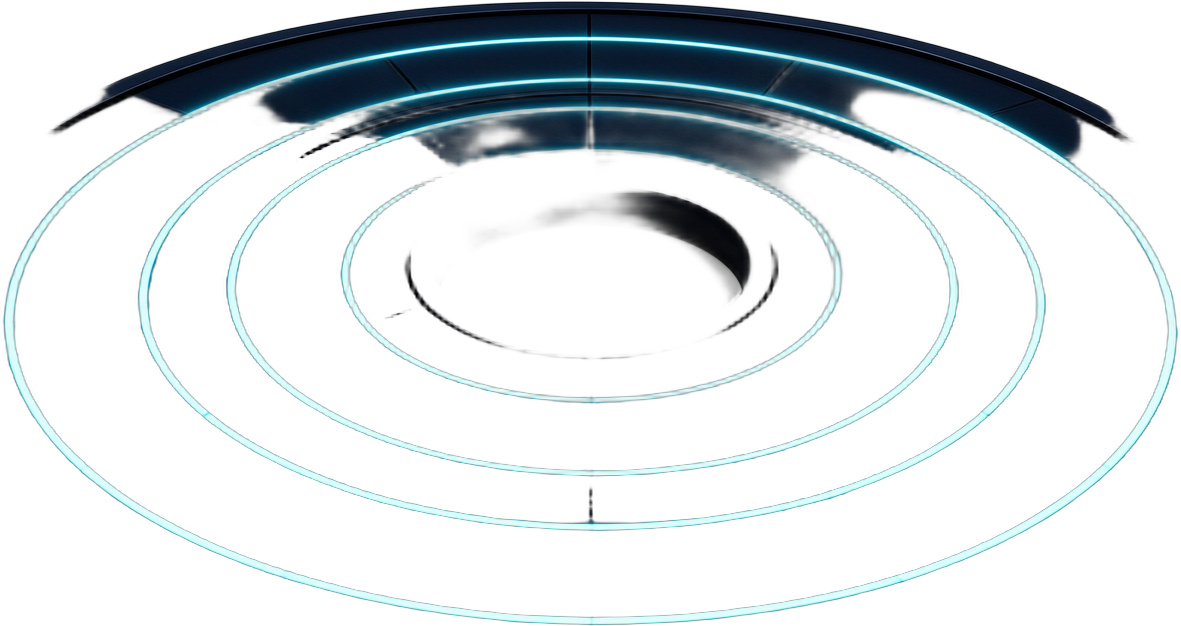
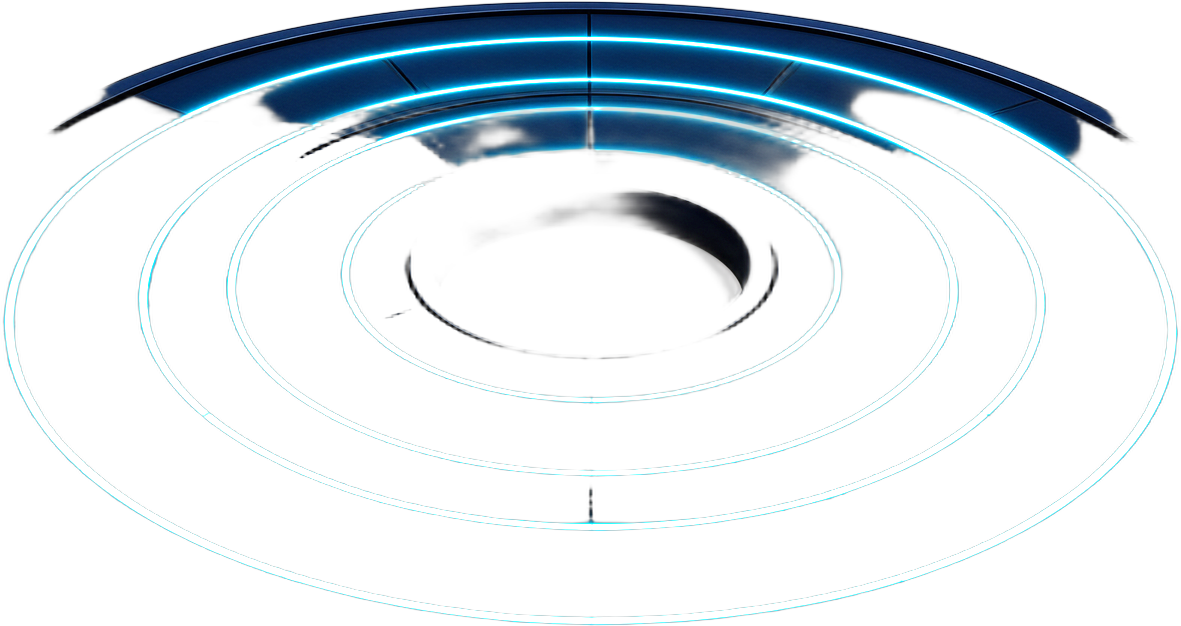
[UI:floor] 台显形+9座收环缘+椅换矮斗凳——藏蓝台撞暗地板隐身(提亮1.75),9座按台环椭圆参数收缘,scoop-chair 换原图低斗凳款
Generated with Devin

diff --git a/web/src/react/pages/floorStage.tsx b/web/src/react/pages/floorStage.tsx
@@ -35,19 +35,19 @@ export type StageProps = {
 
 const fmtM = (v: number) => "$" + v.toLocaleString("zh-CN", { maximumFractionDigits: 0 });
 // 圆桌9座·站位6机·脑/喙/屏/件/流 —— 底图%位表(改图先改表)
-// SEAT_POS 按器官 i 定点:[x%,y%,scale]——done 器居前座满尺,
-// pin 器居后缘缩尺(景深+立项=快入座)
+// SEAT_POS——9座全站环台缘外侧:台心(50,66) rx=35 ry=19.5 椭圆参数
+// θ=170°..10° 左缘→前中→右缘;尺度按θ景深(前大侧小)
 const SEAT_POS = [
-  [50, 75, 1.0], [35, 73.5, 1.0], [65, 73.5, 1.0], [24, 66, 0.85], [76, 66, 0.85],
-  [21, 57, 0.7], [79, 57, 0.7], [30, 54, 0.65], [70, 54, 0.65],
+  [15.5, 69.4, 0.7], [19.7, 75.8, 0.8], [27.5, 80.9, 0.9], [38, 84.3, 1.0],
+  [50, 85.5, 1.05], [62, 84.3, 1.0], [72.5, 80.9, 0.9], [80.3, 75.8, 0.8], [84.5, 69.4, 0.7],
 ];
-// 朝向:围桌朝台心——b=背影朝台(前座) r=朝右(左翼) l=朝左(右翼,翻转)
-const SEAT_FACE = ["b", "b", "b", "r", "l", "r", "l", "r", "l"] as const;
+// 朝向:围桌朝台心——左半朝右(r)、前中背影(b)、右半朝左(l,翻转)
+const SEAT_FACE = ["r", "r", "r", "b", "b", "b", "l", "l", "l"] as const;
 const MACH_POS = [[10, 41], [20, 40], [33, 39], [64, 39], [78, 40], [90, 41], [46, 39.5], [55, 39.5]];
 // 物理主机机柜位——墙沿工位间缝,真硬件件(非人形:器/服/机三形分家)
 const HOST_POS = [[5, 46], [85, 46.5], [95, 46], [28, 47]];
 // 台面工单板位——环台面上散件,一待办一板(原图台面散件=活工单)
-const PAD_POS = [[38, 66], [46, 68], [54, 68], [62, 66], [30, 59], [70, 59], [38, 52], [62, 52]];
+const PAD_POS = [[32, 64], [41, 66.5], [50, 67.5], [59, 66.5], [68, 64], [27, 59.5], [73, 59.5], [50, 71]];
 const SCREEN_POS = { A: [11, 16], B: [32, 16], C: [67, 16], D: [87, 16] } as const;
 
 export function FloorStage(p: StageProps) {

diff --git a/web/src/react/styles/31-floor.css b/web/src/react/styles/31-floor.css
@@ -241,7 +241,7 @@ button.v2-row.ft-row {
   font-size: 12.5px; border-bottom: 1px solid rgba(110, 160, 220, .12); }
 .inbox-row a { color: #7fb8e8; word-break: break-all; }
 
-.fs-table { position: absolute; transform: translate(-50%, -50%) scaleY(.58); width: 64%; z-index: 1;
+.fs-table { position: absolute; transform: translate(-50%, -50%) scaleY(.58); width: 70%; z-index: 1;
   filter: drop-shadow(0 14px 28px rgba(0,0,0,.65)); pointer-events: none; }
 .fstage button { font: inherit; background: none; border: 0; cursor: pointer; }
 .fs-dot { display: inline-block; width: 7px; height: 7px; border-radius: 50%; margin-right: 5px; background: #6b7a90; }
